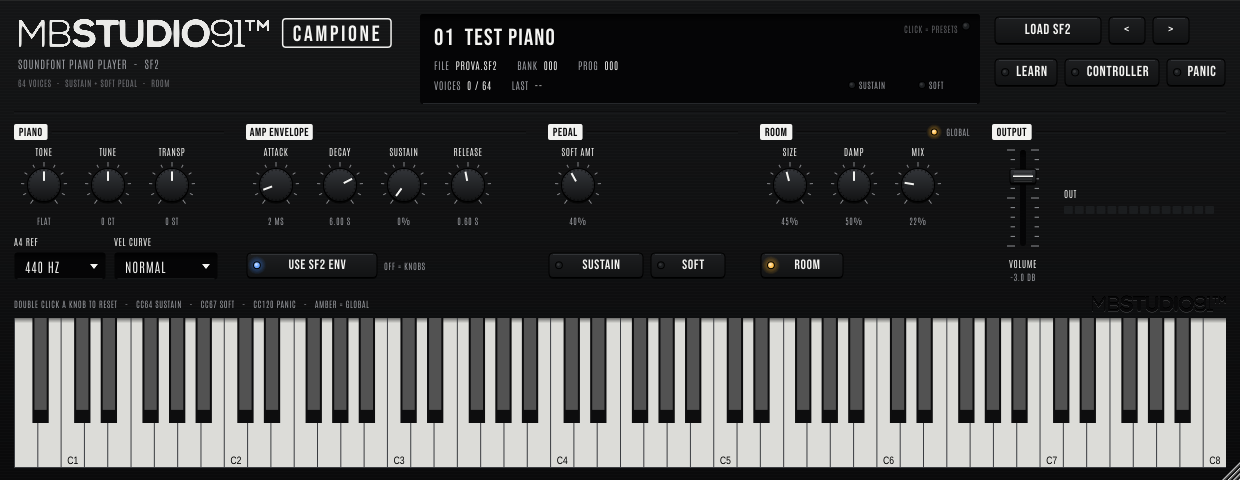
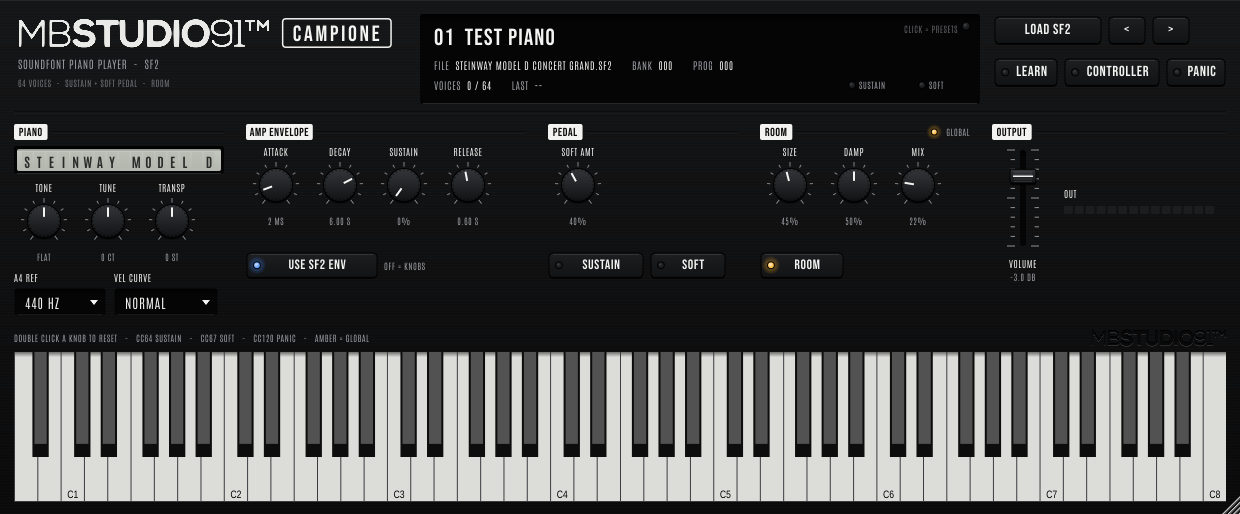
Display LCD col nome del SoundFont nella sezione PIANO; librerie per la prova su Linux
- vetro grigio chiaro, 16 celle, caratteri grigio scuro; i nomi più lunghi scorrono
  (fermo 1,5 s all'inizio, poi un carattere ogni 0,3 s)
- la sezione PIANO scende sotto il display, pannello 1240 x 514
- GitHub Actions: installa FreeType, Fontconfig e ALSA prima della prova del motore

Claude-Session: https://claude.ai/code/session_01WmqijEuPBkdoT6P6tGhM7M

diff --git a/Source/PluginEditor.cpp b/Source/PluginEditor.cpp
@@ -7,7 +7,10 @@ using namespace campione;
 namespace
 {
 constexpr int margin = 14, lineY = 112, chipY = 124, cellY = 144, cellH = 88, knobW = 60, step = 64;
-constexpr int row2LabelY = 236, row2Y = 252, row2H = 28, footerY = 296, keyboardY = 318;
+constexpr int row2LabelY = 236, row2Y = 252, row2H = 28, footerY = 330, keyboardY = 352;
+constexpr int lcdY = 146, lcdH = 28, pianoShift = 36;      // la sezione PIANO scende sotto il display LCD
+constexpr int pianoCellY = cellY + pianoShift, pianoRow2Y = row2Y + pianoShift;
+const juce::Colour lcdBg (0xffc3c6be), lcdCell (0xffb4b7ae), lcdInk (0xff2a2c2a);
 
 const char* noteName (int n)
 {
@@ -28,11 +31,11 @@ CampionePanel::CampionePanel (CampioneProcessor& p)
                  { "OUTPUT", {}, { 992, chipY, 234, 160 } } };
 
     // PIANO
-    add (Kind::knob, id::tone, "TONE").cell = { margin, cellY, knobW, cellH };
-    add (Kind::knob, id::tune, "TUNE").cell = { margin + step, cellY, knobW, cellH };
-    add (Kind::knob, id::transpose, "TRANSP").cell = { margin + 2 * step, cellY, knobW, cellH };
-    add (Kind::combo, id::a4ref, "A4 REF").cell = { margin, row2Y, 92, row2H };
-    add (Kind::combo, id::velCurve, "VEL CURVE").cell = { margin + 100, row2Y, 104, row2H };
+    add (Kind::knob, id::tone, "TONE").cell = { margin, pianoCellY, knobW, cellH };
+    add (Kind::knob, id::tune, "TUNE").cell = { margin + step, pianoCellY, knobW, cellH };
+    add (Kind::knob, id::transpose, "TRANSP").cell = { margin + 2 * step, pianoCellY, knobW, cellH };
+    add (Kind::combo, id::a4ref, "A4 REF").cell = { margin, pianoRow2Y, 92, row2H };
+    add (Kind::combo, id::velCurve, "VEL CURVE").cell = { margin + 100, pianoRow2Y, 104, row2H };
     // AMP ENVELOPE
     add (Kind::knob, id::attack, "ATTACK").cell = { 246, cellY, knobW, cellH };
     add (Kind::knob, id::decay, "DECAY").cell = { 246 + step, cellY, knobW, cellH };
@@ -89,7 +92,8 @@ CampionePanel::CampionePanel (CampioneProcessor& p)
     addAndMakeVisible (midiOverlay);     // per ultimo: sopra a tutto
 
     juce::Component::SafePointer<CampionePanel> safeThis (this);
-    proc.onSoundFontChanged = [safeThis] { juce::MessageManager::callAsync ([safeThis] { if (safeThis != nullptr) safeThis->repaint(); }); };
+    proc.onSoundFontChanged = [safeThis] { juce::MessageManager::callAsync ([safeThis] { if (safeThis != nullptr) { safeThis->updateLcd(); safeThis->repaint(); } }); };
+    updateLcd();
     setSize (baseW, baseH);
     startTimerHz (30);
 }
@@ -233,6 +237,7 @@ void CampionePanel::mouseDown (const juce::MouseEvent& e)
 void CampionePanel::resized()
 {
     displayArea = { 420, 14, 560, 90 };
+    lcdArea = { margin, lcdY, 210, lcdH };
     loadBtn.setBounds (994, 16, 108, 30);
     prevBtn.setBounds (1108, 16, 38, 30);
     nextBtn.setBounds (1152, 16, 38, 30);
@@ -354,6 +359,8 @@ void CampionePanel::paint (juce::Graphics& g)
         ui::paintEngravedLine (g, { a.getX() + cw + 4.f, a.getY() + 8.f }, { lineEnd, a.getY() + 8.f });
     }
 
+    paintLcd (g);
+
     // etichette e valori dei controlli
     for (auto& c : ctls)
     {
@@ -366,7 +373,7 @@ void CampionePanel::paint (juce::Graphics& g)
         }
         else if (c->kind == Kind::combo)
         {
-            ui::paintPrinted (g, { cell.getX(), (float) row2LabelY - 2.f, cell.getWidth() + 20.f, 14.f }, c->label, 12.f);
+            ui::paintPrinted (g, { cell.getX(), cell.getY() - (float) (row2Y - row2LabelY) - 2.f, cell.getWidth() + 20.f, 14.f }, c->label, 12.f);
         }
         else if (c->kind == Kind::fader)
         {
@@ -385,8 +392,63 @@ void CampionePanel::paint (juce::Graphics& g)
     ui::paintLogo (g, { (float) baseW - 260.f, (float) footerY, 246.f, 16.f }, false, ui::Imprint::debossed, juce::Justification::centredRight);
 }
 
+// ------------------------------------------------------------------------------------------------ display LCD
+void CampionePanel::updateLcd()
+{
+    juce::String t;
+    if (proc.lastError().isNotEmpty()) t = "ERROR - " + proc.lastError();
+    else if (proc.engine.isLoaded()) t = proc.engine.currentFile().getFileNameWithoutExtension();
+    else t = "NO SOUNDFONT";
+    t = t.toUpperCase().retainCharacters (" !\"#$%&'()*+,-./0123456789:;<=>?@ABCDEFGHIJKLMNOPQRSTUVWXYZ[]_");
+    if (t != lcdText) { lcdText = t; lcdOffset = 0; lcdTicks = 0; repaint (lcdArea); }
+}
+
+void CampionePanel::paintLcd (juce::Graphics& g)
+{
+    // cornice incassata, vetro grigio chiaro, 16 celle a matrice con i caratteri in grigio scuro
+    const auto outer = lcdArea.toFloat();
+    ui::paintRecess (g, outer);
+    const auto glass = outer.reduced (3.f);
+    g.setGradientFill (juce::ColourGradient (lcdBg.brighter (.06f), glass.getX(), glass.getY(), lcdBg.darker (.08f), glass.getX(), glass.getBottom(), false));
+    g.fillRoundedRectangle (glass, 2.f);
+    g.setColour (juce::Colours::black.withAlpha (.25f));
+    g.fillRect (glass.withHeight (1.5f));
+
+    const juce::String loop = lcdText.length() > lcdChars ? lcdText + "    " : lcdText;
+    const auto cells = glass.reduced (5.f, 3.f);
+    const float cw = cells.getWidth() / (float) lcdChars;
+    g.setFont (ui::Fonts::bold (17.f));
+    for (int i = 0; i < lcdChars; ++i)
+    {
+        const juce::Rectangle<float> c (cells.getX() + (float) i * cw, cells.getY(), cw - 1.5f, cells.getHeight());
+        g.setColour (lcdCell.withAlpha (.55f));
+        g.fillRect (c);
+        juce::juce_wchar ch = ' ';
+        if (loop.length() > lcdChars) ch = loop[(lcdOffset + i) % loop.length()];
+        else if (i < loop.length()) ch = loop[i];
+        if (ch != ' ')
+        {
+            g.setColour (lcdInk);
+            g.drawText (juce::String::charToString (ch), c.translated (0.f, 1.f), juce::Justification::centred, false);
+        }
+    }
+}
+
 void CampionePanel::timerCallback()
 {
+    updateLcd();
+    if (lcdText.length() > lcdChars)
+    {
+        // 1,5 s fermo all'inizio, poi un carattere ogni 0,3 s
+        ++lcdTicks;
+        const bool atStart = lcdOffset == 0;
+        if ((atStart && lcdTicks >= 45) || (! atStart && lcdTicks >= 9))
+        {
+            lcdTicks = 0;
+            lcdOffset = (lcdOffset + 1) % (lcdText.length() + 4);
+            repaint (lcdArea);
+        }
+    }
     meter.setLevel (std::pow (proc.outputLevel(), .5f));
     if (panicFlash > 0) --panicFlash;
     panicBtn.setToggleState (panicFlash > 0 && (panicFlash / 3) % 2 == 0, juce::dontSendNotification);

diff --git a/Source/PluginEditor.h b/Source/PluginEditor.h
@@ -17,7 +17,7 @@ public:
     bool isInterestedInFileDrag (const juce::StringArray&) override;
     void filesDropped (const juce::StringArray&, int, int) override;
 
-    static constexpr int baseW = 1240, baseH = 480;
+    static constexpr int baseW = 1240, baseH = 514;
 
 private:
     enum class Kind { knob, combo, toggle, fader };
@@ -45,7 +45,13 @@ private:
     mbstudio::midi::MidiControls midiButtons;
     mbstudio::midi::MidiLearnOverlay midiOverlay;
     std::unique_ptr<juce::FileChooser> chooser;
-    juce::Rectangle<int> displayArea;
+    juce::Rectangle<int> displayArea, lcdArea;
+    // display LCD della sezione PIANO: nome del SoundFont, 16 caratteri, scorre se è più lungo
+    static constexpr int lcdChars = 16;
+    juce::String lcdText;
+    int lcdOffset = 0, lcdTicks = 0;
+    void updateLcd();
+    void paintLcd (juce::Graphics&);
     juce::String touched, touchedValue;
     juce::uint32 touchedMs = 0;
     int panicFlash = 0;

diff --git a/README.md b/README.md
@@ -19,7 +19,7 @@ xattr -dr com.apple.quarantine ~/Library/Audio/Plug-Ins/VST3/"MBStudio91 Campion
 
 ## Come si usa
 
-Campione non contiene suoni: si carica un proprio file `.sf2` con **LOAD SF2** oppure trascinandolo sul pannello. Parte il preset banco 0 programma 0 (il pianoforte acustico nei SoundFont General MIDI), altrimenti il primo dell'elenco. Un clic sul display apre l'elenco dei preset, diviso per banco; `<` e `>` passano al precedente e al successivo. Il percorso del file e il preset vengono salvati nel progetto.
+Campione non contiene suoni: si carica un proprio file `.sf2` con **LOAD SF2** oppure trascinandolo sul pannello. Parte il preset banco 0 programma 0 (il pianoforte acustico nei SoundFont General MIDI), altrimenti il primo dell'elenco. Un clic sul display apre l'elenco dei preset, diviso per banco; `<` e `>` passano al precedente e al successivo. Il percorso del file e il preset vengono salvati nel progetto. Il display LCD sotto il titolo PIANO mostra il nome del file: se supera i 16 caratteri scorre.
 
 | Sezione | Controlli |
 |---|---|
